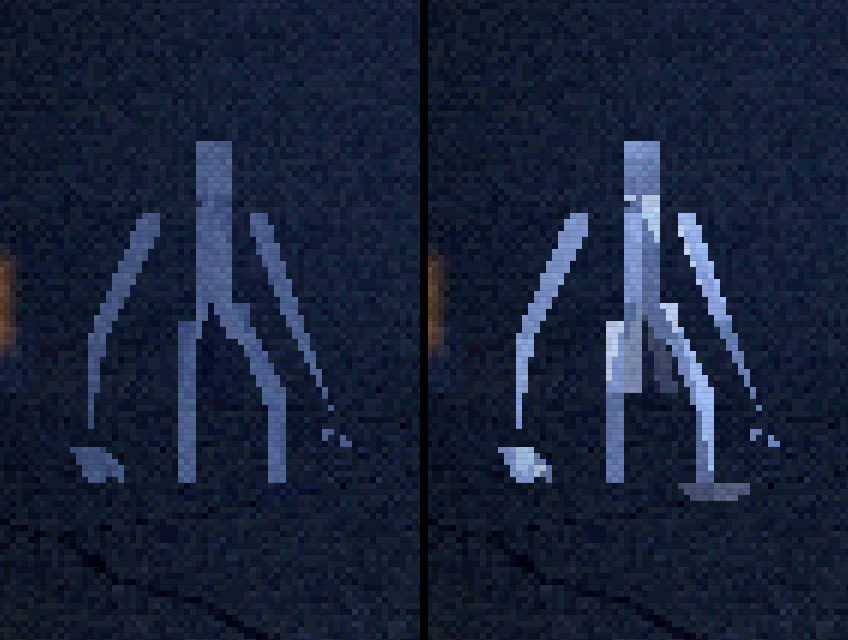
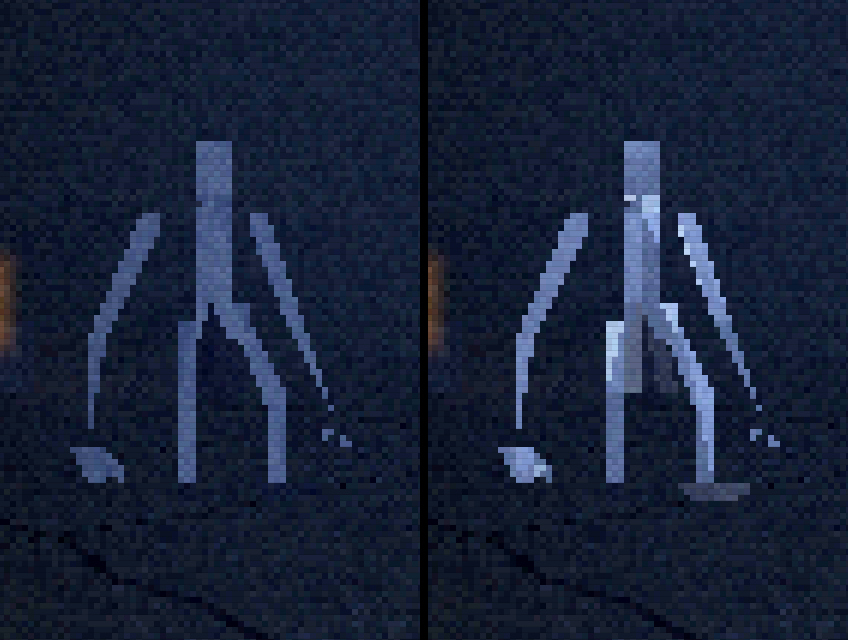
feat(render): contorno do caçador mais fraco só no Retro em 1ª pessoa (#48)
Issue #48, resposta 3b: na 1ª pessoa do modo Retro (?retro=1) o contorno
fica claro demais; respostas 1a e 2a mantêm o contorno forte na 3ª pessoa.

- data/balance.yaml render.hunter_outline.retro_scale: 0,7 (fator sobre a
  intensidade escolhida, só no Retro em 1ª pessoa), com schema e teste;
- ps1.ts: uRim = intensidade escolhida × retro_scale na vista Retro em
  1ª pessoa (renderFrame); getHunterOutline continua a opção do jogador;
- compare.mjs: legibilidade Retro em 1ª pessoa por preset (cena LEG,
  máscara chapada, WCAG) ≥ render.legibility.min_contrast;
- capturas em docs/art/marcos/a3 (antes/depois e recortes).

Contraste fora do cone no Retro, 1,0 → 0,7: low 4,70 → 3,84; medium
4,76 → 3,91; high 3,61 → 3,06. 3ª pessoa sem mudança (17 cenas com dif 0;
medium fora 3,21:1, dentro 5,58:1).

Closes #48

Claude-Session: https://claude.ai/code/session_01RHvzBkpAz1qJUMgUKvPxkx

diff --git a/packages/client/test/contorno-retro.test.ts b/packages/client/test/contorno-retro.test.ts
@@ -1,0 +1,34 @@
+// Issue #48 (resposta 3b): o contorno do caçador (D-18) leva render.hunter_outline.retro_scale só no modo Retro em
+// 1ª pessoa; na 3ª pessoa fica a intensidade escolhida (opção do jogador, V8), sem mudança.
+import { afterEach, describe, expect, it } from "vitest";
+import { balance } from "../src/data.ts";
+import { getHunterOutline, rimUniforms, setHunterOutline, setHunterOutlineRetroView } from "../src/render/ps1.ts";
+
+const ho = balance.render.hunter_outline;
+
+describe("contorno do caçador no modo Retro em 1ª pessoa (issue #48)", () => {
+  afterEach(() => { setHunterOutlineRetroView(false); setHunterOutline(ho.intensity); });
+
+  it("3ª pessoa: intensidade escolhida, igual a render.hunter_outline.intensity no padrão", () => {
+    expect(rimUniforms.uRim.value).toBe(ho.intensity);
+    setHunterOutline(0.5);
+    expect(rimUniforms.uRim.value).toBe(0.5);
+  });
+
+  it("Retro em 1ª pessoa: intensidade × retro_scale; a opção do jogador continua a escolhida", () => {
+    expect(ho.retro_scale).toBeLessThan(1);
+    setHunterOutlineRetroView(true);
+    expect(rimUniforms.uRim.value).toBeCloseTo(ho.intensity * ho.retro_scale, 10);
+    expect(getHunterOutline()).toBe(ho.intensity);
+    setHunterOutline(0.5);
+    expect(rimUniforms.uRim.value).toBeCloseTo(0.5 * ho.retro_scale, 10);
+    setHunterOutline(0);
+    expect(rimUniforms.uRim.value).toBe(0);
+  });
+
+  it("volta à intensidade escolhida ao sair da 1ª pessoa (V)", () => {
+    setHunterOutlineRetroView(true);
+    setHunterOutlineRetroView(false);
+    expect(rimUniforms.uRim.value).toBe(ho.intensity);
+  });
+});

diff --git a/packages/client/src/render/ps1.ts b/packages/client/src/render/ps1.ts
@@ -53,10 +53,19 @@ export const rimUniforms = {
   uRimColor: { value: rimColor(tok(ho.color), ho.amount) },
   uRimPower: { value: ho.power },
 };
-/** intensidade atual do contorno do caçador (0 a 1) */
-export const getHunterOutline = () => rimUniforms.uRim.value;
+/** intensidade escolhida (opção do jogador, V8) e se a vista atual é a 1ª pessoa do modo Retro (issue #48) */
+const rim = { chosen: ho.intensity, retroFirstPerson: false };
+/** uRim = intensidade escolhida × render.hunter_outline.retro_scale só no Retro em 1ª pessoa (issue #48, 3b) */
+const applyRim = () => { rimUniforms.uRim.value = rim.chosen * (rim.retroFirstPerson ? ho.retro_scale : 1); };
+/** intensidade escolhida do contorno do caçador (0 a 1), sem o fator do Retro em 1ª pessoa */
+export const getHunterOutline = () => rim.chosen;
 /** setter para o menu de opções (V8): 0 desliga o contorno; fora de 0..1 é limitado */
-export function setHunterOutline(v: number) { rimUniforms.uRim.value = clamp01(v); }
+export function setHunterOutline(v: number) { rim.chosen = clamp01(v); applyRim(); }
+/**
+ * issue #48 (3b): a vista desenhada é a 1ª pessoa do modo Retro (`?retro=1`)? Nela o contorno leva o fator
+ * render.hunter_outline.retro_scale; na 3ª pessoa (jogo normal e o V do Retro) fica a intensidade escolhida
+ */
+export function setHunterOutlineRetroView(on: boolean) { rim.retroFirstPerson = on; applyRim(); }
 /**
  * forma do contorno (amount e power; null volta a render.hunter_outline). Só para capturas de comparação de arte
  * (tools/art/a3-capturas.mjs --forma); o jogo usa os dados

diff --git a/packages/client/src/render/scene.ts b/packages/client/src/render/scene.ts
@@ -12,7 +12,7 @@ import { cameraFov } from "./motion.ts";
 import { fxTime, onLayersChange, presetLayers, setGrainSeed, setLayers, tickLayers, type LayerSet } from "./layers.ts";
 import { clientRandom, urlPreset, urlRetro, urlRetroClass, type RetroClass } from "./options.ts";
 import { createPresenter, type Presenter } from "./present.ts";
-import { Ps1Material, ps1Uniforms } from "./ps1.ts";
+import { Ps1Material, ps1Uniforms, setHunterOutlineRetroView } from "./ps1.ts";
 import { createIndustrial, type Industrial } from "./retro/industrial.ts";
 import { createViewmodel, type Viewmodel } from "./retro/viewmodel.ts";
 import { createGenVisual, createLock, type GenVisual } from "./states.ts";
@@ -240,6 +240,8 @@ export function buildActors(ctx: RenderCtx, G: GameState, skin: string) {
 /** posiciona câmera e luz do jogador e desenha o quadro (alvo em baixa resolução → passe final) */
 export function renderFrame(ctx: RenderCtx, G: GameState, view: { yaw: number; pitch: number; thirdPerson: boolean }) {
   placeCamera(ctx, G, view);
+  // issue #48: contorno do caçador mais fraco só no modo Retro em 1ª pessoa (render.hunter_outline.retro_scale)
+  setHunterOutlineRetroView(!!ctx.retro && !view.thirdPerson);
   drawFrame(ctx, G, !view.thirdPerson);
 }
 

diff --git a/packages/shared/src/schema.ts b/packages/shared/src/schema.ts
@@ -305,8 +305,11 @@ const render = z.object({
     warmup_rounds: z.number().int().nonnegative(),
   }).strict(),
   legibility: z.object({ min_contrast: num.min(1), body_keep: unit }).strict(),
-  /** D-18: contorno do caçador (borda de luz por vértice); intensity de 0 a 1, amount = escala da cor do token */
-  hunter_outline: z.object({ intensity: unit, color: token, amount: pos, power: num.positive() }).strict(),
+  /**
+   * D-18: contorno do caçador (borda de luz por vértice); intensity de 0 a 1, amount = escala da cor do token;
+   * retro_scale (issue #48, 3b) = fator de 0 a 1 sobre a intensidade só no modo Retro em 1ª pessoa
+   */
+  hunter_outline: z.object({ intensity: unit, color: token, amount: pos, power: num.positive(), retro_scale: unit }).strict(),
   budgets: z.object({ fps: pos, draw_calls: z.number().int().positive(), triangles: z.number().int().positive(), initial_download_mb: pos, map_download_mb: pos, time_to_play_s: pos }).strict(),
   stress: z.object({ distance: num.positive(), spacing: num.positive(), margin: pos, sweep: z.number().int().positive(), network_mbps: num.positive() }).strict(),
   models: z.object({

diff --git a/packages/shared/test/render-layers.test.ts b/packages/shared/test/render-layers.test.ts
@@ -53,6 +53,14 @@ describe("contorno do caçador (D-18; Art Bible §5.3)", () => {
     for (const v of rgb5) expect((r.hunter_outline.amount * Math.round((v * 255) / 31)) / 255).toBeLessThanOrEqual(1);
   });
 
+  it("retro_scale (issue #48) fica em 0..1 e fora disso é recusado", () => {
+    expect(r.hunter_outline.retro_scale).toBeGreaterThanOrEqual(0);
+    expect(r.hunter_outline.retro_scale).toBeLessThanOrEqual(1);
+    const bad = yaml.replace(/(hunter_outline: \{[^}]*retro_scale: )[\d.]+/, "$11.2");
+    expect(bad).not.toBe(yaml);
+    expect(() => parseBalance(bad)).toThrow();
+  });
+
   it("intensidade fora de 0..1 e cor que não é token são recusadas", () => {
     expect(() => parseBalance(yaml.replace(/(hunter_outline: \{intensity: )[\d.]+/, "$11.5"))).toThrow();
     expect(() => parseBalance(yaml.replace(/(hunter_outline: \{intensity: [\d.]+, color: )[a-z_.]+/, "$1\"#5a5e66\""))).toThrow();
